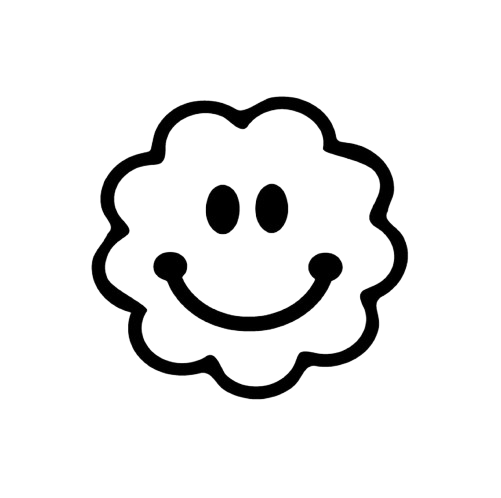
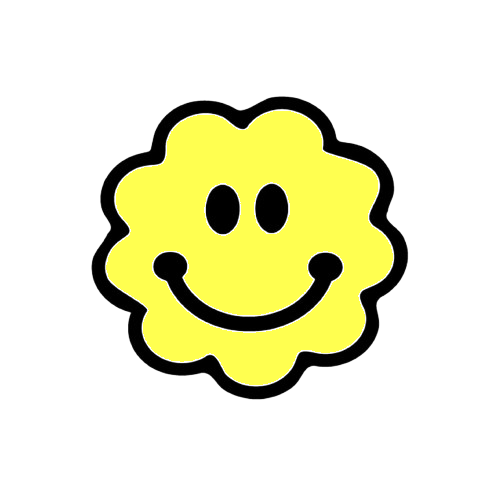
fix pop up close button not displaying, style flower and popup

Changed region(s): [[0.2096, 0.2108, 0.8084, 0.7831]]

diff --git a/src/App.tsx b/src/App.tsx
@@ -242,7 +242,9 @@ function App() {
 
         new maplibregl.Popup()
           .setLngLat(coordinates as maplibregl.LngLatLike)
-          .setHTML(`<p>mood:${description}</p>`)
+          .setHTML(
+            `<h2 style="color: #0050FF; font-weight: bold">mood</h2><h3>${description}</h3>`
+          )
           .addTo(map);
 
         map.on("mouseenter", "moods-point", () => {

diff --git a/src/App.css b/src/App.css
@@ -57,3 +57,7 @@
   font: 12px/20px "Helvetica Neue", Arial, Helvetica, sans-serif;
   color: black;
 }
+
+.maplibregl-popup-close-button {
+  color: black;
+}
